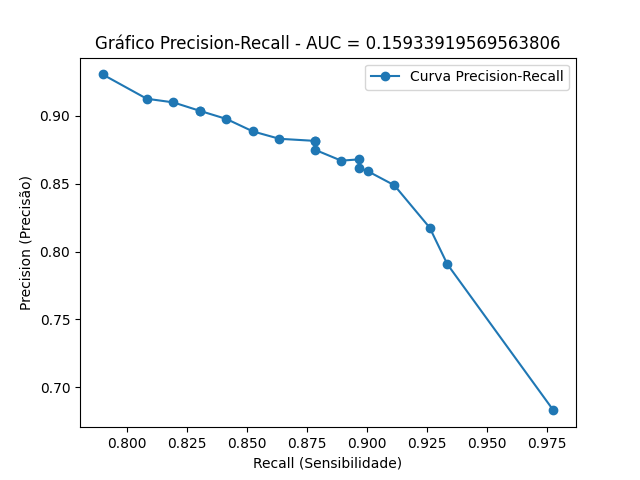
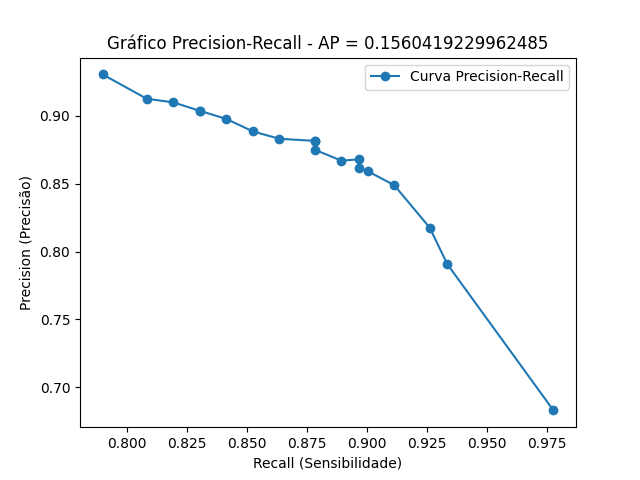
UPDATE Average Precision

Changed region(s): [[0.1562, 0.0625, 0.5312, 0.125], [0.5625, 0.0625, 0.875, 0.125]]

diff --git a/trab1/script.py b/trab1/script.py
@@ -34,6 +34,20 @@ def text_to_float(data):
         data[key] = float(value)
     return data
 
+#Calcula o AP (Average_precision)
+def calc_ap(precision, recall):
+    # Ordena os pares (recall, precision) com base no recall
+    sorted_pairs = sorted(zip(recall, precision))
+    sorted_recall, sorted_precision = zip(*sorted_pairs)
+    
+    ap = 0.0
+    for i in range(1, len(sorted_recall)):
+        ap += (sorted_recall[i] - sorted_recall[i - 1]) * sorted_precision[i]
+    return ap
+
+
+
+
 # Função responsável por realizar os cálculos de métricas
 def calc(data, thresholds, sensi, precision, F1_score):
     tp = data["TP"]
@@ -66,18 +80,18 @@ def generate_graph(sensi, precision, size_image ):
 
     name = f"Grafico_Precision_Recall_{size_image}.png"
     
-    # Calcula o AUC para a curva Precision-Recall
-    auc_value = auc(sensi, precision)
+    # Calcula o ap para a curva Precision-Recall
+    ap_value = calc_ap(precision, sensi)
 
     plt.figure()    
     plt.plot(sensi, precision, 'o-', label='Curva Precision-Recall')
     plt.xlabel('Recall (Sensibilidade)')
     plt.ylabel('Precision (Precisão)')
-    plt.title(f"Gráfico Precision-Recall - AUC = {auc_value}")
+    plt.title(f"Gráfico Precision-Recall - AP = {ap_value}")
     plt.legend(loc='best')    
     plt.savefig(name)
         
-    return auc_value
+    return ap_value
 
 ####################################################################################
 
@@ -91,10 +105,10 @@ def main():
     size_image = [512,608,800]
     count = 0
     token = "conf_thresh"
-    max_auc = 0
+    max_ap = 0
     max_f1 = 0
     best_threshold = 0
-    best_image_auc = ""
+    best_image_ap = ""
     best_image_f1 = ""
     best_current_f1 = 0
     best_current_threshold = 0
@@ -126,10 +140,10 @@ def main():
                         best_threshold = thresholds[-1]
                         best_image_f1 = file_name
 
-        auc = generate_graph(sensi, precision, size_image[count])
-        if auc > max_auc:
-            max_auc = auc
-            best_image_auc = file_name
+        ap = generate_graph(sensi, precision, size_image[count])
+        if ap > max_ap:
+            max_ap = ap
+            best_image_ap = file_name
 
         count += 1
         thresholds.clear()
@@ -138,7 +152,7 @@ def main():
         F1_score.clear()  
         print("")
         print (f"Melhor resultado - threshold: {best_current_threshold} -  F1-Score: {best_current_f1}")
-        print (f"AUC: {auc}\n")  
+        print (f"Average Precision (AP): {ap}\n")  
         print (100 * "*")
         print ("")
         best_current_f1 = 0
@@ -146,8 +160,8 @@ def main():
 
     #Conclusão dos resultados
     print("\nResultados Finais:")
-    print(f"Melhor AUC: {max_auc}")
-    print(f"Melhor tamanho de imagem em relação ao AUC: {best_image_auc}")
+    print(f"Melhor Average Precision: {max_ap}")
+    print(f"Melhor tamanho de imagem em relação ao ap: {best_image_ap}")
     print(f"Melhor tamanho de imagem baseado em F1-score: {max_f1} em {best_image_f1} - Threshold: {best_threshold}")
     
 if __name__ == "__main__":

diff --git a/trab1/conclusoes.md b/trab1/conclusoes.md
@@ -1,4 +1,3 @@
-
 # Trabalho 1 para a disciplina de Processamento de Imagens Biomédicas
 
 Professor: Lucas Ferrari
@@ -10,10 +9,11 @@ GRR20231950
 ## Resultados
 
 ### Saída gerada:
+
 Resultados Finais:
 
-- Melhor AUC: **0.15933919569563806**
-- Melhor tamanho de imagem em relação ao AUC: **Modelos/512_yolov4_5000_dados_celulas.txt**
+- Melhor AP: **0.1560419229962485**
+- Melhor tamanho de imagem em relação ao AP: **Modelos/512_yolov4_5000_dados_celulas.txt**
 - Melhor tamanho de imagem baseado em F1-score: **0.8859813084112149** em **Modelos/800_yolov4_5000_dados_celulas.txt** - Threshold: **0.75**
 
 ## Conclusões
@@ -24,19 +24,15 @@ A curva de Precision-Recall é uma medida útil para comparar o desempenho da cl
 
 A análise da melhor imagem depende de como os nossos dados estão suportados (equilibrados ou desequilibrados).
 
-Podemos realizar o cálculo de AUC PR (Área sob a curva de Precision-Recall) para obter um número que que descreva o desempenho do modelo [2]. Porém, os valores de AUC PR ap calculados foram abaixos, o qual podem indicar baixo número de thresholds, desequilíbrio de classes, entre outros fatores.
+Podemos realizar o cálculo de AP(Average Precision), o qual é um resumo da curva de precisão-recall (PR) em um único valor que representa a média de todas as precisões [1]. Os valores variam de 0 até 1, ou seja, quanto maior a métrica, melhor o desempenho do modelo em diferentes limites.
+
+Porém, os valores de AP calculados foram abaixos, o qual podem indicar baixo número de thresholds, desequilíbrio de classes, entre outros fatores.
 
 Portanto, as imagens de tamanho 800 com threshold de 0.75 são as mais indicadas, pois apresentou melhores valores de equilibrio entre Precision-Recall.
-
-OBS: 
-
-- AUC ROC = Dados mais equilibrados
-
-- AUC PR = Dados mais desequilibrados[1]
 
 
 
 Referência:
-[1] - https://developers.google.com/machine-learning/crash-course/classification/roc-and-auc?hl=pt-br#:~:text=modelo%20hipot%C3%A9tico%20perfeito.-,%C3%81rea%20sob%20a%20curva%20(AUC),classificar%C3%A1%20positivo%20maior%20que%20negativo.
+[1] - https://docs.kolena.com/metrics/average-precision/#:~:text=Average%20precision%20(AP)%20summarizes%20a,and%20AP%20scores%20of%201.
 
-[2] - https://neptune.ai/blog/f1-score-accuracy-roc-auc-pr-auc
+
